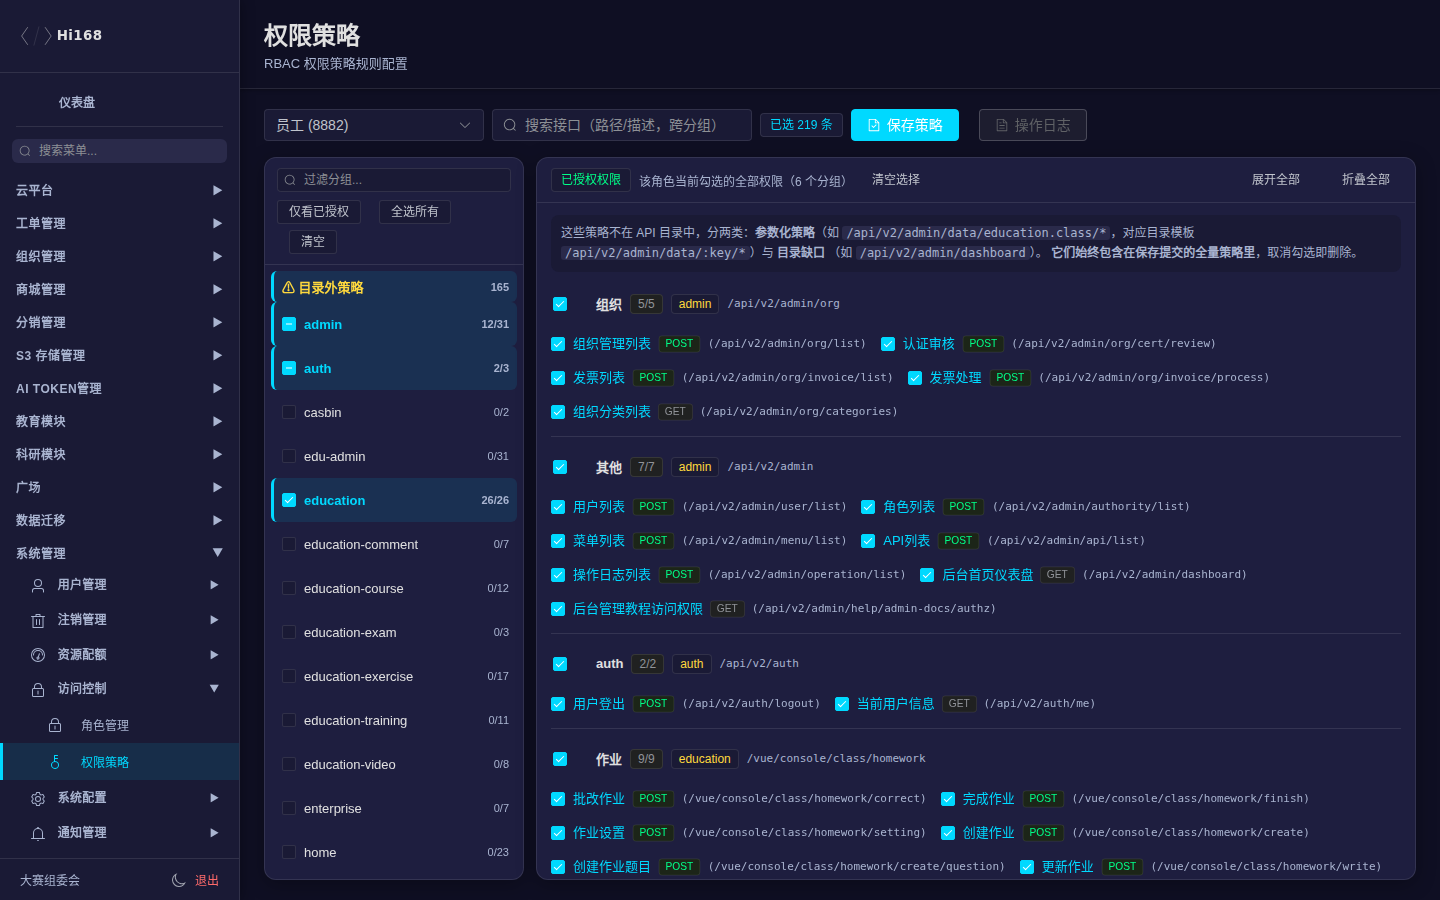
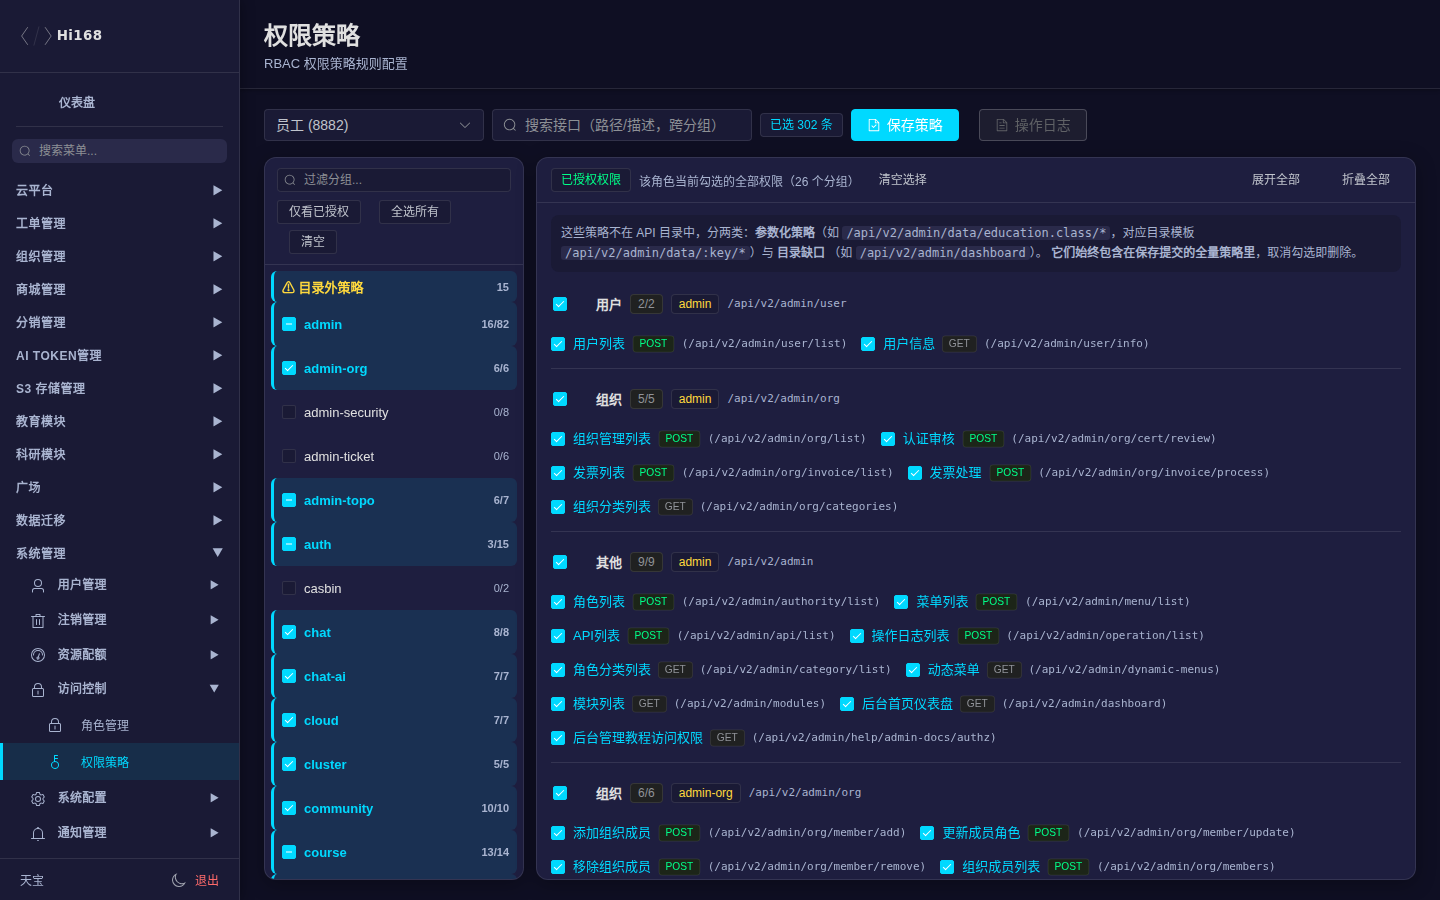
docs(admin): 权限截图改用生产环境；数据迁移状态标注为部分调整

diff --git a/admin/README.md b/admin/README.md
@@ -66,7 +66,7 @@
 | [教育模块](./education) | 班级、教师、课程、培训、练习、考试、证书、大赛、直播、课件 |
 | [科研模块](./research) | 领域、期刊、学者、论文、关键词、知识库、订阅与关注 |
 | [广场管理](./community) | 动态、话题、创作者、评论 |
-| [数据迁移](./migration) | Odoo/旧平台数据同步、迁移任务与日志（**2026-11-08 起暂时下架**） |
+| [数据迁移](./migration) | Odoo/旧平台数据同步、迁移任务与日志（**2026-11-08 部分迁移能力调整，以实际菜单为准**） |
 | [系统管理](./system) | 用户、注销、配额、访问控制、系统配置、通知、安全、站内通知、敏感词、权益 |
 | [通用操作与 FAQ](./appendix) | 搜索/分页/导入导出/审计/常见问题 |
 
@@ -80,7 +80,7 @@
 6. **危险操作**：删除、停售、封禁、退款等按钮通常需要二次确认；生产环境操作前先确认影响范围。
 
 > ⚠ 业务页面截图均来自生产环境 **只读浏览**，未创建、修改或删除任何业务数据；手机号、邮箱、姓名等个人信息已做模糊处理。
-> 权限分配弹窗与「无权限」提示页的截图来自 **prelive 验证环境**（生产尚未分配该权限），界面与生产一致。
+> 权限分配弹窗与「无权限」提示页的截图均来自 **生产环境**。
 
 ## 七、版本与反馈
 

diff --git a/admin/migration.md b/admin/migration.md
@@ -1,6 +1,6 @@
 # 数据迁移
 
-> ⚠ **模块状态：2026-11-08 起暂时下架。** 后台左侧栏不再显示「数据迁移」分组，`/api/v2/admin/migration/*` 接口也不再注册。以下内容保留，供模块恢复后参考；当前生产请勿按本文操作。
+> ⚠ **模块状态（2026-11-08）**：hub 的本地数据迁移模块已暂时下架；但 `nexus-commerce` / `nexus-s3` 仍会向后台提供「分销数据迁移」「S3 数据迁移」等子菜单，具体以左侧栏实际显示为准。本文保留完整说明，供模块恢复后参考；高风险迁移操作前务必确认当前版本的实际入口与后端能力。
 
 数据迁移用于把旧平台（Odoo / 旧 hi168）的数据同步到新平台。**这是后台风险最高的一组功能**：多数按钮会直接写生产库，操作前必须确认环境、范围、幂等性和回滚方案。
 

diff --git a/admin/access-control.md b/admin/access-control.md
@@ -49,7 +49,7 @@
 
 ![勾选后台管理教程访问权限](./images/admin-access-policy-new-perm.png)
 
-> 上图来自 **prelive 验证环境**（生产尚未分配该权限），角色为「员工 8882」；生产分配后界面一致。
+> 上图来自 **生产环境**，角色为「员工 8882」（已勾选「后台管理教程访问权限」）。
 
 > 如果一个角色已经有很多策略，**不要使用「全选/清空」**。本页保存是「读取现有 → 合并 → 整体提交」，只勾选新增项即可，已有勾选会保持。
 

diff --git a/admin/_sidebar.md b/admin/_sidebar.md
@@ -12,6 +12,6 @@
   * [科研模块](./research)
   * [广场管理](./community)
 * **系统与数据**
-  * [数据迁移（暂时下架）](./migration)
+  * [数据迁移](./migration)
   * [系统管理](./system)
   * [通用操作与 FAQ](./appendix)
